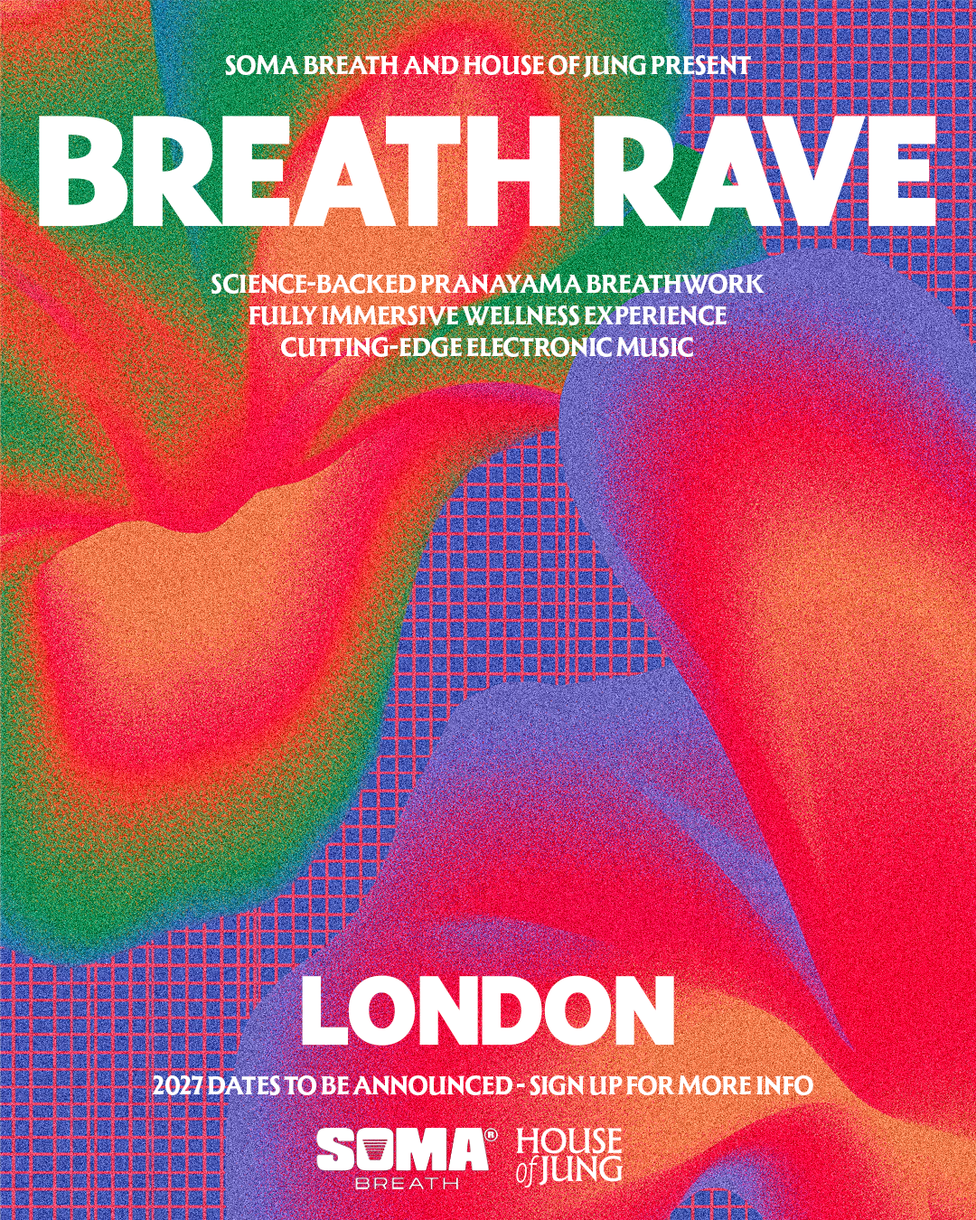
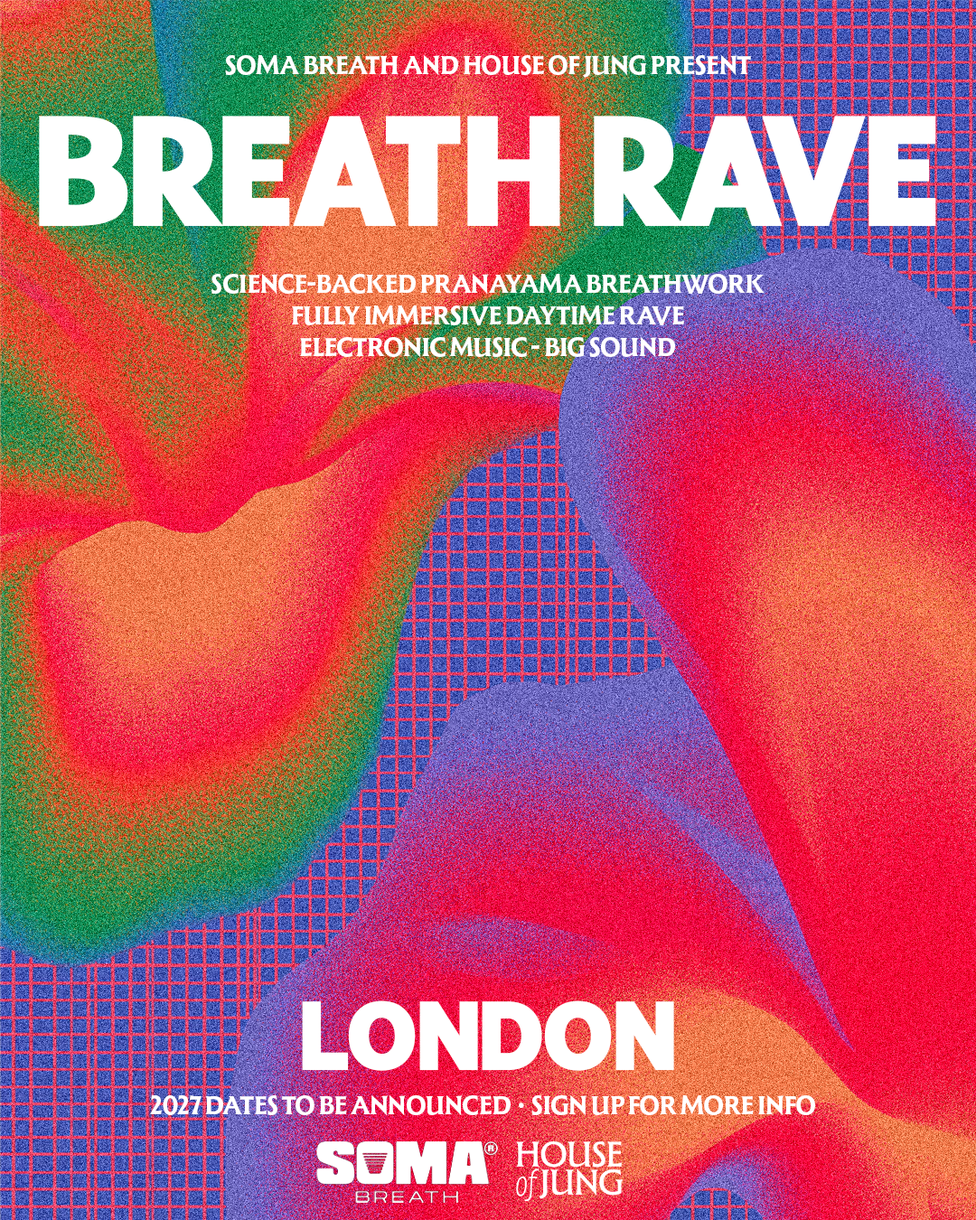
Updated teaser poster: daytime rave line, bigger sub-lines

Changed region(s): [[0.1528, 0.7778, 0.8556, 0.9956], [0.2444, 0.2489, 0.7639, 0.3111]]

diff --git a/index.html b/index.html
@@ -136,7 +136,7 @@
 <section class="priority" id="priority"><div class="priority-inner wrap">
 <div class="priority-grid">
 <figure class="poster">
-<img src="/img/poster-v2-760.webp" srcset="/img/poster-v2-480.webp 480w, /img/poster-v2-760.webp 760w" sizes="(max-width: 860px) 68vw, 420px" width="760" height="950" loading="lazy" decoding="async" alt="Breath Rave poster: SOMA Breath and House of Jung present Breath Rave. Science-backed pranayama breathwork, a fully immersive wellness experience and cutting-edge electronic music. London. 2027 dates to be announced, sign up for more info.">
+<img src="/img/poster-v2-760.webp" srcset="/img/poster-v2-480.webp 480w, /img/poster-v2-760.webp 760w" sizes="(max-width: 860px) 68vw, 420px" width="760" height="950" loading="lazy" decoding="async" alt="Breath Rave poster: SOMA Breath and House of Jung present Breath Rave. Science-backed pranayama breathwork, a fully immersive daytime rave, electronic music and big sound. London. 2027 dates to be announced, sign up for more info.">
 </figure>
 <div class="priority-copy">
 <p class="eyebrow reveal">LONDON · JANUARY 2027</p>
